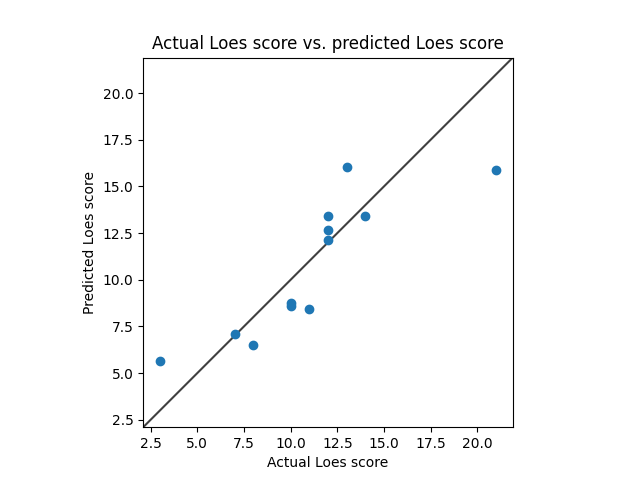
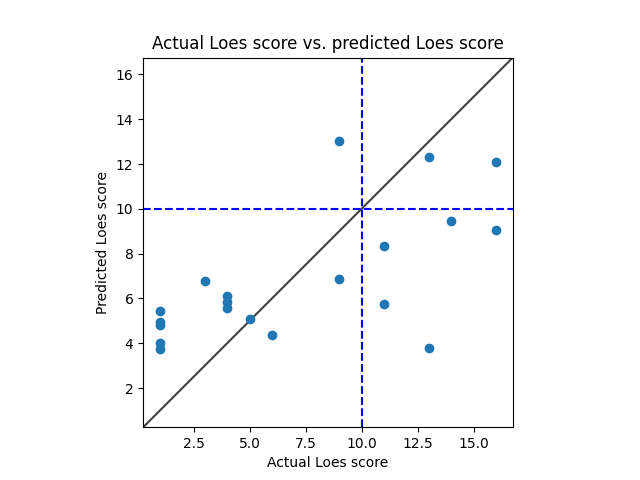
Redid Model 5 with stratification by score.

diff --git a/src/dcan/models/ResNet.py b/src/dcan/models/ResNet.py
@@ -1,0 +1,206 @@
+# https://blog.paperspace.com/writing-resnet-from-scratch-in-pytorch/
+
+import numpy as np
+import torch
+import torch.nn as nn
+from torchvision import datasets
+from torchvision import transforms
+from torch.utils.data.sampler import SubsetRandomSampler
+
+
+def data_loader(data_dir,
+                batch_size,
+                random_seed=42,
+                valid_size=0.1,
+                shuffle=True,
+                test=False):
+    normalize = transforms.Normalize(
+        mean=[0.4914, 0.4822, 0.4465],
+        std=[0.2023, 0.1994, 0.2010],
+    )
+
+    # define transforms
+    transform = transforms.Compose([
+        transforms.Resize((224, 224)),
+        transforms.ToTensor(),
+        normalize,
+    ])
+
+    if test:
+        dataset = datasets.CIFAR10(
+            root=data_dir, train=False,
+            download=True, transform=transform,
+        )
+
+        data_loader = torch.utils.data.DataLoader(
+            dataset, batch_size=batch_size, shuffle=shuffle
+        )
+
+        return data_loader
+
+    # load the dataset
+    train_dataset = datasets.CIFAR10(
+        root=data_dir, train=True,
+        download=True, transform=transform,
+    )
+
+    valid_dataset = datasets.CIFAR10(
+        root=data_dir, train=True,
+        download=True, transform=transform,
+    )
+
+    num_train = len(train_dataset)
+    indices = list(range(num_train))
+    split = int(np.floor(valid_size * num_train))
+
+    if shuffle:
+        np.random.seed(42)
+        np.random.shuffle(indices)
+
+    train_idx, valid_idx = indices[split:], indices[:split]
+    train_sampler = SubsetRandomSampler(train_idx)
+    valid_sampler = SubsetRandomSampler(valid_idx)
+
+    train_loader = torch.utils.data.DataLoader(
+        train_dataset, batch_size=batch_size, sampler=train_sampler)
+
+    valid_loader = torch.utils.data.DataLoader(
+        valid_dataset, batch_size=batch_size, sampler=valid_sampler)
+
+    return (train_loader, valid_loader)
+
+
+# CIFAR10 dataset
+train_loader, valid_loader = data_loader(data_dir='./data',
+                                         batch_size=64)
+
+test_loader = data_loader(data_dir='./data',
+                          batch_size=64,
+                          test=True)
+
+# Device configuration
+device = torch.device('cuda' if torch.cuda.is_available() else 'cpu')
+
+
+class ResidualBlock(nn.Module):
+    def __init__(self, in_channels, out_channels, stride=1, downsample=None):
+        super(ResidualBlock, self).__init__()
+        self.conv1 = nn.Sequential(
+            nn.Conv3d(in_channels, out_channels, kernel_size=3, stride=stride, padding=1),
+            nn.BatchNorm3d(out_channels),
+            nn.ReLU())
+        self.conv2 = nn.Sequential(
+            nn.Conv3d(out_channels, out_channels, kernel_size=3, stride=1, padding=1),
+            nn.BatchNorm3d(out_channels))
+        self.downsample = downsample
+        self.relu = nn.ReLU()
+        self.out_channels = out_channels
+
+    def forward(self, x):
+        residual = x
+        out = self.conv1(x)
+        out = self.conv2(out)
+        if self.downsample:
+            residual = self.downsample(x)
+        out += residual
+        out = self.relu(out)
+        return out
+
+
+class ResNet(nn.Module):
+    def __init__(self, block, layers, num_classes=10):
+        super(ResNet, self).__init__()
+        self.inplanes = 64
+        self.conv1 = nn.Sequential(
+            nn.Conv3d(3, 64, kernel_size=7, stride=2, padding=3),
+            nn.BatchNorm3d(64),
+            nn.ReLU())
+        self.maxpool = nn.MaxPool3d(kernel_size=3, stride=2, padding=1)
+        self.layer0 = self._make_layer(block, 64, layers[0], stride=1)
+        self.layer1 = self._make_layer(block, 128, layers[1], stride=2)
+        self.layer2 = self._make_layer(block, 256, layers[2], stride=2)
+        self.layer3 = self._make_layer(block, 512, layers[3], stride=2)
+        self.avgpool = nn.AvgPool3d(7, stride=1)
+        self.fc = nn.Linear(512, num_classes)
+
+    def _make_layer(self, block, planes, blocks, stride=1):
+        downsample = None
+        if stride != 1 or self.inplanes != planes:
+            downsample = nn.Sequential(
+                nn.Conv3d(self.inplanes, planes, kernel_size=1, stride=stride),
+                nn.BatchNorm3d(planes),
+            )
+        layers = [block(self.inplanes, planes, stride, downsample)]
+        self.inplanes = planes
+        for i in range(1, blocks):
+            layers.append(block(self.inplanes, planes))
+
+        return nn.Sequential(*layers)
+
+    def forward(self, x):
+        x = self.conv1(x)
+        x = self.maxpool(x)
+        x = self.layer0(x)
+        x = self.layer1(x)
+        x = self.layer2(x)
+        x = self.layer3(x)
+
+        x = self.avgpool(x)
+        x = x.view(x.size(0), -1)
+        x = self.fc(x)
+
+        return x
+
+num_classes = 10
+num_epochs = 20
+batch_size = 16
+learning_rate = 0.01
+
+model = ResNet(ResidualBlock, [3, 4, 6, 3]).to(device)
+
+# Loss and optimizer
+criterion = nn.CrossEntropyLoss()
+optimizer = torch.optim.SGD(model.parameters(), lr=learning_rate, weight_decay = 0.001, momentum = 0.9)
+
+# Train the model
+total_step = len(train_loader)
+
+import gc
+
+total_step = len(train_loader)
+
+for epoch in range(num_epochs):
+    for i, (images, labels) in enumerate(train_loader):
+        # Move tensors to the configured device
+        images = images.to(device)
+        labels = labels.to(device)
+
+        # Forward pass
+        outputs = model(images)
+        loss = criterion(outputs, labels)
+
+        # Backward and optimize
+        optimizer.zero_grad()
+        loss.backward()
+        optimizer.step()
+        del images, labels, outputs
+        torch.cuda.empty_cache()
+        gc.collect()
+
+    print('Epoch [{}/{}], Loss: {:.4f}'
+          .format(epoch + 1, num_epochs, loss.item()))
+
+    # Validation
+    with torch.no_grad():
+        correct = 0
+        total = 0
+        for images, labels in valid_loader:
+            images = images.to(device)
+            labels = labels.to(device)
+            outputs = model(images)
+            _, predicted = torch.max(outputs.data, 1)
+            total += labels.size(0)
+            correct += (predicted == labels).sum().item()
+            del images, labels, outputs
+
+        print('Accuracy of the network on the {} validation images: {} %'.format(5000, 100 * correct / total))

diff --git a/src/dcan/training/training.py b/src/dcan/training/training.py
@@ -261,15 +261,21 @@ class LoesScoringTrainingApp:
     def main(self):
         log.info("Starting {}, {}".format(type(self).__name__, self.cli_args))
         self.df['subject'] = self.df.apply(lambda row: get_subject_from_file_name(row['file']), axis=1)
-
         self.df['session'] = self.df.apply(lambda row: get_session_from_file_name(row['file']), axis=1)
 
         subjects = list(self.df.subject.unique())
-        train_size = round(len(subjects) * 0.8)
-        provenance_train_subjects = random.sample(subjects, train_size)
-        provenance_val_subjects = [subject for subject in subjects if subject not in provenance_train_subjects]
-        self.train_subjects.extend(provenance_train_subjects)
-        self.val_subjects.extend(provenance_val_subjects)
+        grouped = self.df.groupby('subject')['loes-score'].mean()
+        sorted_groups = grouped.sort_values(ascending=True)
+        i = 0
+        train_subjects = []
+        for item in sorted_groups.items():
+            if i % 5 != 0:
+                train_subjects.append(item[0])
+            i += 1
+
+        val_subjects = [subject for subject in subjects if subject not in train_subjects]
+        self.train_subjects.extend(train_subjects)
+        self.val_subjects.extend(val_subjects)
 
         train_dl = self.init_train_dl(self.df, self.train_subjects)
         val_dl = self.init_val_dl(self.df, self.val_subjects)

diff --git a/src/dcan/plot/create_scatterplot.py b/src/dcan/plot/create_scatterplot.py
@@ -26,6 +26,8 @@ def create_scatterplot(d, output_file):
     ax.set_aspect('equal')
     ax.set_xlim(lims)
     ax.set_ylim(lims)
+    plt.axvline(x=10, color='b', ls='--')
+    plt.axhline(y=10, color='b', ls='--')
     plt.xlabel("Actual Loes score")
     plt.ylabel("Predicted Loes score")
 

diff --git a/src/dcan/training/train_with_resnet.py b/src/dcan/training/train_with_resnet.py
@@ -1,0 +1,4 @@
+from faimed3d.all import *
+from torchvision.models.video import r3d_18
+from fastai.distributed import *
+from fastai.callback.all import SaveModelCallback

diff --git a/doc/LoesScoreModels.md b/doc/LoesScoreModels.md
@@ -1,11 +1,11 @@
 # Model 5
 * data: all of Ashish's Gd-enhanced data
-* Standardized RMSE: 0.5996136185352607
+* Standardized RMSE: 1.3465736121901255
 ![Model 5](./img/model05.png "Model 5")
-* correlation:    0.8541613776103457
-* p-value:        0.0004045969574059146
-* standard error: 0.1377646039381321
-* SLURM script: *../src/dcan/training/loes-scoring-training_model05_mesabi.sh*
+* correlation:    0.6639005760048992
+* p-value:        0.0014129271260232773
+* standard error: 0.09497052216668729
+* SLURM script: *../bin/loes-scoring-training_model05_mesabi.sh*
 * Model: */home/feczk001/shared/data/AlexNet/LoesScoring/loes_scoring_05.pt*
 * Epochs: 512
 
